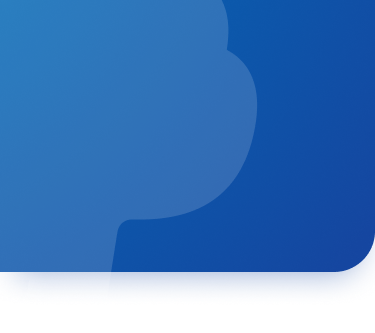
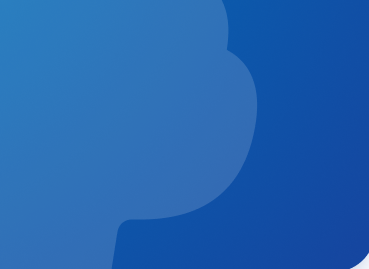
home screen bar

Changed region(s): [[0.0, 0.2974, 1.0, 1.0], [0.5962, 0.0, 0.6856, 0.2677]]

diff --git a/lib/screens/home/home_screen.dart b/lib/screens/home/home_screen.dart
@@ -24,12 +24,16 @@ class HomeScreen extends StatelessWidget {
           width: MediaQuery.of(context).size.width,
           decoration: BoxDecoration(
             image: DecorationImage(
-                image: new AssetImage('assets/images/appBarImg.png'),
-                fit: BoxFit.cover),
+              image: new AssetImage('assets/images/appBarImg.png'),
+              fit: BoxFit.cover,
+            ),
             color: Colors.blue,
-            borderRadius: BorderRadius.only(bottomRight: Radius.circular(41)),
+            borderRadius: BorderRadius.only(
+              bottomRight: Radius.circular(41),
+            ),
           ),
           child: Column(
+            mainAxisAlignment: MainAxisAlignment.spaceBetween,
             children: [
               Padding(
                 padding: const EdgeInsets.fromLTRB(20, 30, 20, 0),
@@ -44,15 +48,66 @@ class HomeScreen extends StatelessWidget {
                         color: Color(0xFFF5F7FA),
                         borderRadius: BorderRadius.circular(25),
                       ),
-                      child: Image.asset('assets/images/face.png',
-                          fit: BoxFit.fill),
+                      child: Image.asset(
+                        'assets/images/face.png',
+                        fit: BoxFit.fill,
+                      ),
                     ),
                   ],
                 ),
               ),
-              Row(),
-              Row(),
-              Row()
+              Padding(
+                padding: const EdgeInsets.fromLTRB(20, 0, 0, 0),
+                child: Row(
+                  children: [
+                    Opacity(
+                      opacity: 0.5,
+                      child: Text(
+                        "Hello, Vadim!",
+                        style: GoogleFonts.manrope(
+                          textStyle: TextStyle(
+                              color: Color(0xFFFFFFFF),
+                              fontSize: 16.0,
+                              fontWeight: FontWeight.w400),
+                        ),
+                      ),
+                    ),
+                  ],
+                ),
+              ),
+              Padding(
+                padding: const EdgeInsets.fromLTRB(20, 0, 0, 10),
+                child: Row(
+                  children: [
+                    Column(
+                      mainAxisAlignment: MainAxisAlignment.start,
+                      children: [
+                        Text(
+                          "\$ 272.30",
+                          style: GoogleFonts.manrope(
+                            textStyle: TextStyle(
+                                color: Color(0xFFFFFFFF),
+                                fontSize: 40.0,
+                                fontWeight: FontWeight.w600),
+                          ),
+                        ),
+                        Padding(
+                          padding: const EdgeInsets.fromLTRB(0, 0, 60, 0),
+                          child: Text(
+                            "Your Balance",
+                            style: GoogleFonts.manrope(
+                              textStyle: TextStyle(
+                                  color: Color(0xFFFFFFFF),
+                                  fontSize: 16.0,
+                                  fontWeight: FontWeight.w400),
+                            ),
+                          ),
+                        ),
+                      ],
+                    )
+                  ],
+                ),
+              ),
             ],
           ),
         ),
@@ -69,6 +124,42 @@ class HomeScreen extends StatelessWidget {
               child: Column(
                 children: [
                   CardInfo(),
+                  ContactContainer(
+                      activityContainerText: "Mike Rine",
+                      icon: "M",
+                      timer: "1 minute ago",
+                      activityType: "people",
+                      sumOfActivity: "+,250"),
+                  ContactContainer(
+                      activityContainerText: "Google Drive",
+                      icon: "Google",
+                      timer: "2 hours ago",
+                      activityType: "shop",
+                      sumOfActivity: "-,138.5"),
+                  ContactContainer(
+                      activityContainerText: "Casey Smith",
+                      icon: "C",
+                      timer: "9 hours ago",
+                      activityType: "people",
+                      sumOfActivity: "+,531"),
+                  ContactContainer(
+                      activityContainerText: "Mike Rine",
+                      icon: "M",
+                      timer: "1 minute ago",
+                      activityType: "people",
+                      sumOfActivity: "+,250"),
+                  ContactContainer(
+                      activityContainerText: "Google Drive",
+                      icon: "Google",
+                      timer: "2 hours ago",
+                      activityType: "shop",
+                      sumOfActivity: "-,138.5"),
+                  ContactContainer(
+                      activityContainerText: "Casey Smith",
+                      icon: "C",
+                      timer: "9 hours ago",
+                      activityType: "people",
+                      sumOfActivity: "+,531"),
                   ContactContainer(
                       activityContainerText: "Mike Rine",
                       icon: "M",
@@ -136,8 +227,9 @@ class CardMenu extends StatelessWidget {
         Navigator.push(
           context,
           SwipeablePageRoute(
-              onlySwipeFromEdge: true,
-              builder: (BuildContext context) => SendMoneyScreen()),
+            onlySwipeFromEdge: true,
+            builder: (BuildContext context) => SendMoneyScreen(),
+          ),
         );
       },
       child: new Padding(
@@ -186,17 +278,19 @@ class CardMenu extends StatelessWidget {
                   padding: const EdgeInsets.fromLTRB(20, 15, 0, 15),
                   child: Align(
                     alignment: Alignment.topLeft,
-                    child: Text("$text".split(' ').join("\n"),
-                        style: GoogleFonts.manrope(
-                          textStyle: TextStyle(
-                              fontSize: 12.0,
-                              color: cardColor == 1
-                                  ? kBackgroundColor
-                                  : Color(0xFF005EA6),
-                              fontWeight: cardColor == 1
-                                  ? FontWeight.w600
-                                  : FontWeight.w500),
-                        )),
+                    child: Text(
+                      "$text".split(' ').join("\n"),
+                      style: GoogleFonts.manrope(
+                        textStyle: TextStyle(
+                            fontSize: 12.0,
+                            color: cardColor == 1
+                                ? kBackgroundColor
+                                : Color(0xFF005EA6),
+                            fontWeight: cardColor == 1
+                                ? FontWeight.w600
+                                : FontWeight.w500),
+                      ),
+                    ),
                   ),
                 ),
               ],
@@ -221,36 +315,42 @@ class CardInfo extends StatelessWidget {
           child: Row(
             mainAxisAlignment: MainAxisAlignment.spaceBetween,
             children: [
-              Text("Activity",
-                  style: GoogleFonts.manrope(
-                    textStyle: TextStyle(
-                        fontSize: 16.0,
-                        color: kAllColor,
-                        fontWeight: FontWeight.w600),
-                  )),
+              Text(
+                "Activity",
+                style: GoogleFonts.manrope(
+                  textStyle: TextStyle(
+                      fontSize: 16.0,
+                      color: kAllColor,
+                      fontWeight: FontWeight.w600),
+                ),
+              ),
               GestureDetector(
                 // When the child is tapped, show a snackbar.
                 onTap: () {
                   Navigator.push(
                     context,
                     SwipeablePageRoute(
-                        onlySwipeFromEdge: true,
-                        builder: (BuildContext context) => ActivityScreen()),
+                      onlySwipeFromEdge: true,
+                      builder: (BuildContext context) => ActivityScreen(),
+                    ),
                   );
                 },
                 child: Container(
-                    // color: Colors.amber,
-                    height: 35,
-                    width: 60,
-                    child: Center(
-                      child: Text("View All",
-                          style: GoogleFonts.manrope(
-                            textStyle: TextStyle(
-                                fontSize: 12.0,
-                                color: Color.fromRGBO(155, 155, 155, 1.0),
-                                fontWeight: FontWeight.w400),
-                          )),
-                    )),
+                  // color: Colors.amber,
+                  height: 35,
+                  width: 60,
+                  child: Center(
+                    child: Text(
+                      "View All",
+                      style: GoogleFonts.manrope(
+                        textStyle: TextStyle(
+                            fontSize: 12.0,
+                            color: Color.fromRGBO(155, 155, 155, 1.0),
+                            fontWeight: FontWeight.w400),
+                      ),
+                    ),
+                  ),
+                ),
               )
             ],
           ),

diff --git a/lib/screens/sendMoney/sendMoney.dart b/lib/screens/sendMoney/sendMoney.dart
@@ -143,7 +143,9 @@ class SendMoneyScreen extends StatelessWidget {
                       child: Container(
                         decoration: const BoxDecoration(
                             gradient: LinearGradient(
-                              colors: <Color>[
+                              begin: Alignment.topLeft,
+                              end: Alignment(0.8, 0.0),
+                              colors: [
                                 Color(0xFF0070BA),
                                 Color(0xFF1546A0),
                               ],
@@ -151,9 +153,14 @@ class SendMoneyScreen extends StatelessWidget {
                             borderRadius:
                                 BorderRadius.all(Radius.circular(20.0))),
                         padding: const EdgeInsets.fromLTRB(120, 20, 120, 20),
-                        child: Text('Send',
-                            style: GoogleFonts.manrope(
-                                textStyle: TextStyle(fontSize: 16))),
+                        child: Text(
+                          'Send',
+                          style: GoogleFonts.manrope(
+                            textStyle: TextStyle(
+                              fontSize: 16,
+                            ),
+                          ),
+                        ),
                       ),
                     )
                   ],

diff --git a/lib/navigator.dart b/lib/navigator.dart
@@ -32,7 +32,7 @@ class _BottomBar extends State<BottomBar> {
   Widget build(BuildContext context) {
     return (Scaffold(
         body: _children[_currentIndex],
-        bottomNavigationBar: new BottomNavigationBar(
+        bottomNavigationBar: BottomNavigationBar(
           showSelectedLabels: false,
           showUnselectedLabels: false,
           currentIndex: _currentIndex,
